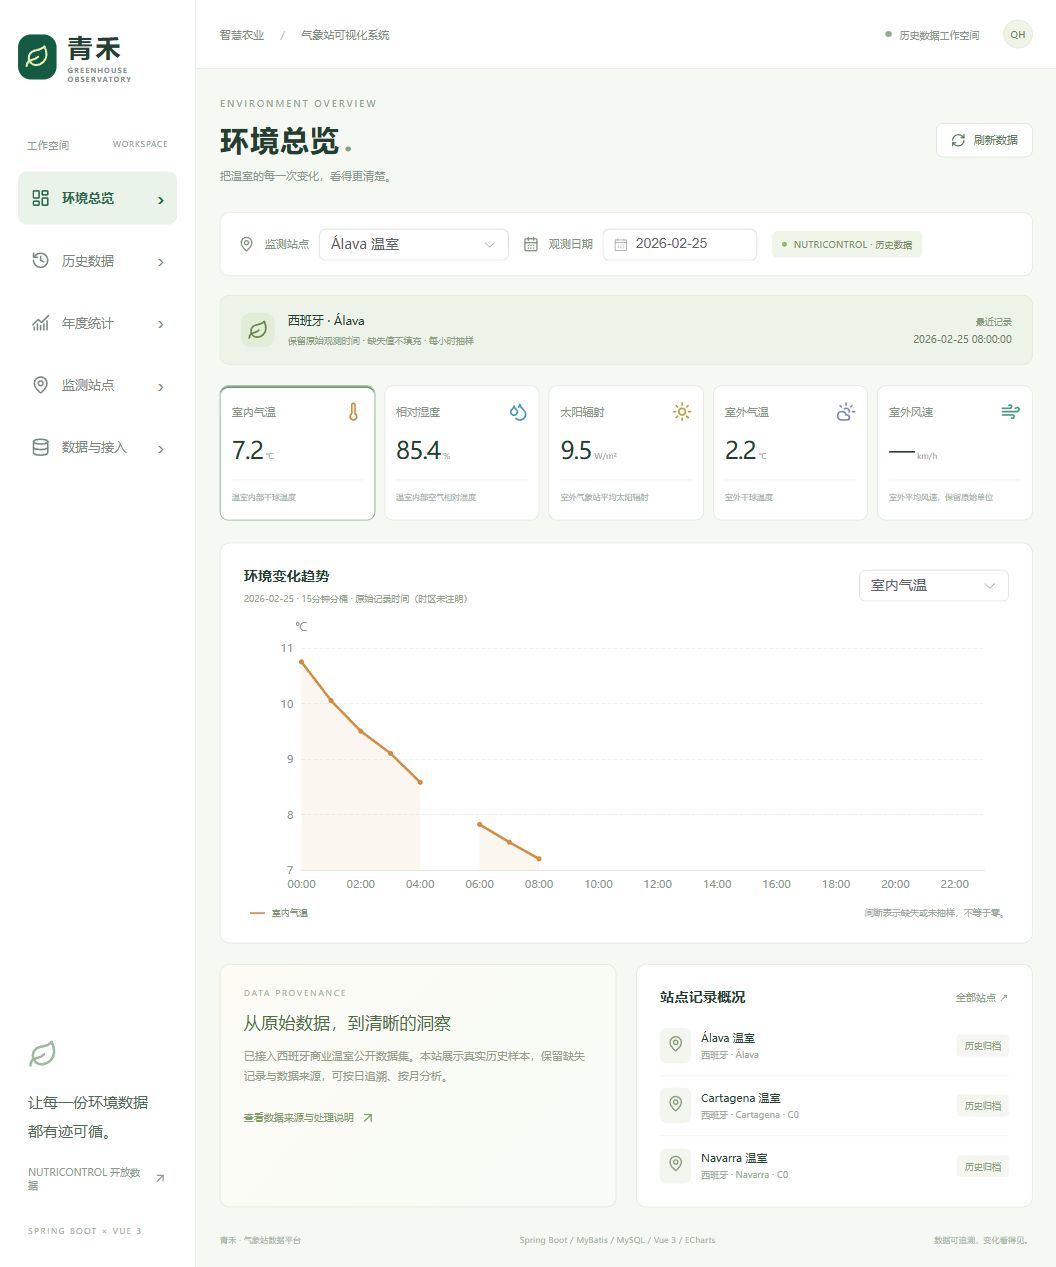
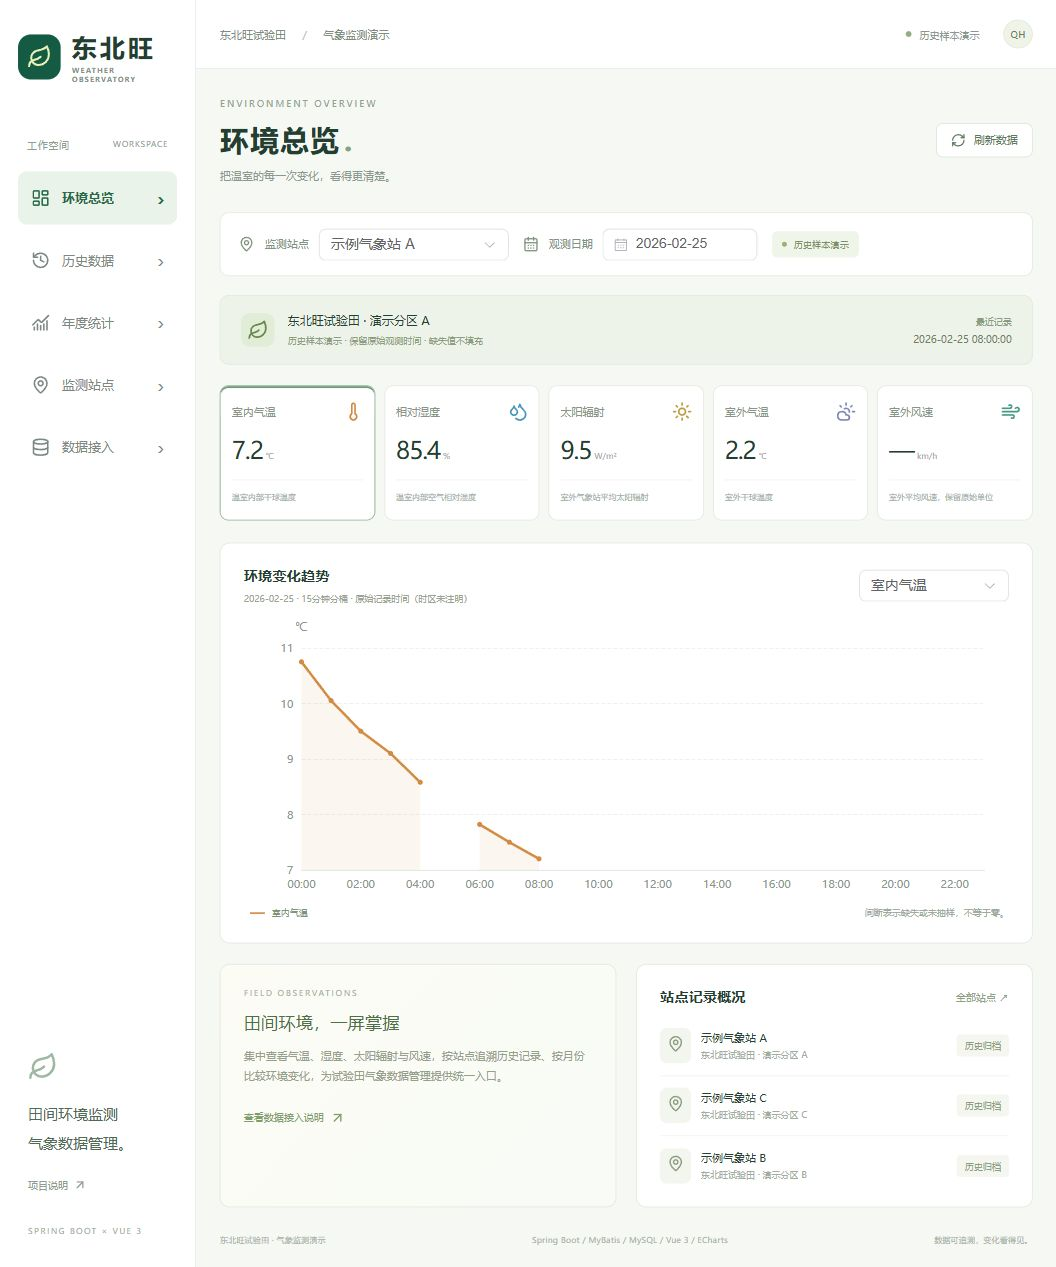
Add clearly labeled Dongbeiwang demonstration scenario

diff --git a/frontend/src/views/Workspace.vue b/frontend/src/views/Workspace.vue
@@ -19,6 +19,7 @@ import {
   FileText,
 } from "lucide-vue-next";
 import ClimateChart from "../components/ClimateChart.vue";
+import { stationPresentation } from "../presentation";
 import {
   request,
   query,
@@ -52,12 +53,12 @@ const titles: Record<string, [string, string, string]> = {
   ],
   stations: [
     "监测站点",
-    "跨越不同气候区的温室环境记录。",
+    "按演示分区查看气象观测与历史记录。",
     "MONITORING STATIONS",
   ],
   sources: [
-    "数据与接入",
-    "透明的数据来源，清晰的系统边界。",
+    "数据接入",
+    "连接采集端，集中管理气象观测数据。",
     "DATA & INTEGRATION",
   ],
 };
@@ -91,7 +92,7 @@ const latest = computed(() =>
 );
 const sourceLabel = computed(() =>
   latest.value?.source === "nutricontrol"
-    ? "NUTRICONTROL · 历史数据"
+    ? "历史样本演示"
     : latest.value?.source === "demo"
       ? "演示数据"
       : latest.value?.source === "device"
@@ -254,7 +255,7 @@ onBeforeUnmount(() => {
           ><el-option
             v-for="s in stations"
             :key="s.station.code"
-            :label="s.station.name"
+            :label="stationPresentation(s.station).name"
             :value="s.station.code"
         /></el-select>
       </div>
@@ -291,10 +292,14 @@ onBeforeUnmount(() => {
         <div>
           <span class="intro-icon"><Leaf :size="21" /></span
           ><span
-            ><strong>{{ selected?.station.location || "正在读取站点" }}</strong
+            ><strong>{{
+              selected
+                ? stationPresentation(selected.station).location
+                : "正在读取站点"
+            }}</strong
             ><small>{{
               latest?.source === "nutricontrol"
-                ? "保留原始观测时间 · 缺失值不填充 · 每小时抽样"
+                ? "历史样本演示 · 保留原始观测时间 · 缺失值不填充"
                 : "按数据源时间展示 · 缺失值不填充"
             }}</small></span
           >
@@ -383,13 +388,13 @@ onBeforeUnmount(() => {
       </section>
       <section class="bottom-grid">
         <div class="panel explain-card">
-          <div class="section-kicker">DATA PROVENANCE</div>
-          <h2>从原始数据，到清晰的洞察</h2>
+          <div class="section-kicker">FIELD OBSERVATIONS</div>
+          <h2>田间环境，一屏掌握</h2>
           <p>
-            已接入西班牙商业温室公开数据集。本站展示真实历史样本，保留缺失记录与数据来源，可按日追溯、按月分析。
+            集中查看气温、湿度、太阳辐射与风速，按站点追溯历史记录、按月份比较环境变化，为试验田气象数据管理提供统一入口。
           </p>
           <RouterLink to="/sources"
-            >查看数据来源与处理说明 <ArrowUpRight :size="16"
+            >查看数据接入说明 <ArrowUpRight :size="16"
           /></RouterLink>
         </div>
         <div class="panel station-summary">
@@ -404,8 +409,8 @@ onBeforeUnmount(() => {
           >
             <span class="station-pin"><MapPin :size="17" /></span>
             <div>
-              <strong>{{ s.station.name }}</strong
-              ><small>{{ s.station.location }}</small>
+              <strong>{{ stationPresentation(s.station).name }}</strong
+              ><small>{{ stationPresentation(s.station).location }}</small>
             </div>
             <span class="muted-pill">历史归档</span>
           </div>
@@ -449,8 +454,8 @@ onBeforeUnmount(() => {
           ><template #default="scope">{{
             valueText(scope.row[m.key], 2)
           }}</template></el-table-column
-        ><el-table-column prop="source" label="来源" min-width="125"
-      /></el-table>
+        ></el-table
+      >
       <div class="table-footer">
         <span>空值以 — 显示；CSV 保留为空。</span
         ><el-pagination
@@ -531,10 +536,10 @@ onBeforeUnmount(() => {
       ><div class="source-banner">
         <MapPin :size="25" />
         <div>
-          <h2>三个地区，多种温室环境</h2>
-          <p>Álava · Navarra · Cartagena / Spain</p>
+          <h2>试验田气象监测分区</h2>
+          <p>东北旺试验田 · 历史样本演示场景</p>
         </div>
-        <span class="data-badge">NUTRICONTROL</span>
+        <span class="data-badge">示例站点</span>
       </div>
       <section class="station-grid">
         <article
@@ -542,13 +547,15 @@ onBeforeUnmount(() => {
           :key="s.station.code"
           class="panel site-card"
         >
-          <span class="site-code">{{ s.station.code }}</span
+          <span class="site-code">DEMONSTRATION STATION</span
           ><span class="site-illustration"
             ><Leaf :size="38" stroke-width="1"
           /></span>
-          <h2>{{ s.station.name }}</h2>
-          <p>{{ s.station.location }}</p>
-          <div class="site-description">{{ s.station.description }}</div>
+          <h2>{{ stationPresentation(s.station).name }}</h2>
+          <p>{{ stationPresentation(s.station).location }}</p>
+          <div class="site-description">
+            {{ stationPresentation(s.station).description }}
+          </div>
           <div class="site-last">
             <span>最近观测记录</span
             ><strong>{{ timeText(s.lastObservedAt) }}</strong>
@@ -565,53 +572,18 @@ onBeforeUnmount(() => {
           </button>
         </article></section
     ></template>
-    <template v-else-if="view === 'sources'"
-      ><div class="source-banner">
+    <template v-else-if="view === 'sources'">
+      <div class="source-banner">
         <Database :size="26" />
         <div>
-          <h2>NUTRICONTROL 开放数据集</h2>
-          <p>Multi-Site Greenhouse Climate Dataset (Spain)</p>
+          <h2>气象观测数据接入</h2>
+          <p>采集端上报 · 数据存储 · 查询与可视化</p>
         </div>
-        <a
-          href="https://github.com/SmartGreenHouses/NUTRICONTROL_datasets"
-          target="_blank"
-          rel="noopener noreferrer"
-          class="outline-button"
-          >访问原始仓库 <ArrowUpRight :size="15"
-        /></a>
+        <span class="data-badge">接入配置</span>
       </div>
       <section class="source-grid">
         <article class="panel prose">
-          <div class="section-kicker">01 / SOURCE & LICENSE</div>
-          <h2>来源与使用许可</h2>
-          <p>
-            数据由 Jaime Carlavilla-Lázaro、Virginia C. Sánchez、Carlos T.
-            Calafate、Carlos García Sáez、Juan Morales-García、José M. Cecilia
-            发布，许可为 CC BY 4.0。
-          </p>
-          <p>
-            使用三个站点的 clean_data 数据，Navarra 与 Cartagena 选择
-            C0，并按相同时间戳关联室外气象数据。DOI：<a
-              href="https://doi.org/10.5281/zenodo.21037153"
-              target="_blank"
-              rel="noopener noreferrer"
-              >10.5281/zenodo.21037153</a
-            >。
-          </p>
-        </article>
-        <article class="panel prose">
-          <div class="section-kicker">02 / PROCESSING</div>
-          <h2>透明的处理规则</h2>
-          <p>
-            默认样本仅选取每小时整点的原始15分钟记录，保留日期与缺失值，数值四舍五入至两位小数。辐射单位为
-            W/m²，风速为 km/h。
-          </p>
-          <p>
-            不插值、不把空值当成零、不把历史记录改成当天。原始数据未注明时区，因此保留源时间，不进行时区换算。月度统计基于已导入样本，不代表完整原始数据集。
-          </p>
-        </article>
-        <article class="panel prose">
-          <div class="section-kicker">03 / ARCHITECTURE</div>
+          <div class="section-kicker">01 / ARCHITECTURE</div>
           <h2>数据服务架构</h2>
           <div class="architecture-flow">
             <span><Database :size="18" /> MySQL</span><b>→</b
@@ -624,7 +596,7 @@ onBeforeUnmount(() => {
           </p>
         </article>
         <article class="panel prose">
-          <div class="section-kicker">04 / INGESTION API</div>
+          <div class="section-kicker">02 / INGESTION API</div>
           <h2>接入自己的观测数据</h2>
           <p>
             <ShieldCheck :size="15" /> 配置至少32位的 INGEST_API_KEY
@@ -650,7 +622,7 @@ POST /api/v1/observations
       </section></template
     >
     <footer class="page-footer">
-      <span>青禾 · 气象站数据平台</span
+      <span>东北旺试验田 · 气象监测演示</span
       ><span>Spring Boot / MyBatis / MySQL / Vue 3 / ECharts</span
       ><span>数据可追溯，变化看得见。</span>
     </footer>

diff --git a/frontend/src/App.vue b/frontend/src/App.vue
@@ -28,7 +28,7 @@ const nav = [
     en: "ANALYTICS",
   },
   { path: "stations", label: "监测站点", icon: MapPin, en: "STATIONS" },
-  { path: "sources", label: "数据与接入", icon: Database, en: "DATA SOURCES" },
+  { path: "sources", label: "数据接入", icon: Database, en: "INTEGRATION" },
 ];
 </script>
 <template>
@@ -40,7 +40,7 @@ const nav = [
       <a class="brand" href="#/overview"
         ><span class="brand-mark"><Leaf :size="25" /></span
         ><span
-          >青禾<span class="brand-sub">GREENHOUSE OBSERVATORY</span></span
+          >东北旺<span class="brand-sub">WEATHER OBSERVATORY</span></span
         ></a
       >
       <div class="nav-caption">工作空间 <span>WORKSPACE</span></div>
@@ -57,20 +57,20 @@ const nav = [
       </nav>
       <div class="sidebar-footer">
         <div class="mini-leaf"><Leaf :size="30" /></div>
-        <p>让每一份环境数据<br />都有迹可循。</p>
+        <p>田间环境监测<br />气象数据管理。</p>
         <a
-          href="https://github.com/SmartGreenHouses/NUTRICONTROL_datasets"
+          href="https://github.com/zhanglonglong01/weather-station-dashboard/blob/main/docs/SCENARIO.md"
           target="_blank"
           rel="noopener noreferrer"
-          >NUTRICONTROL 开放数据 <ArrowUpRight :size="14" /></a
+          >项目说明 <ArrowUpRight :size="14" /></a
         ><small>SPRING BOOT × VUE 3</small>
       </div>
     </aside>
     <div class="content-shell">
       <header class="topbar">
-        <div class="breadcrumbs">智慧农业 <span>/</span> 气象站可视化系统</div>
+        <div class="breadcrumbs">东北旺试验田 <span>/</span> 气象监测演示</div>
         <div class="topbar-right">
-          <span class="status-dot"></span> 历史数据工作空间
+          <span class="status-dot"></span> 历史样本演示
           <span class="avatar">QH</span>
         </div>
       </header>

diff --git a/frontend/src/presentation.ts b/frontend/src/presentation.ts
@@ -1,0 +1,21 @@
+import type { Station } from "./api";
+
+// Presentation aliases describe a demonstration scenario, not collection sites.
+// Canonical station codes and source records remain unchanged in the API/export.
+const demoPartitions: Record<string, string> = {
+  "ES-ALAVA": "A",
+  "ES-NAVARRA": "B",
+  "ES-CARTAGENA": "C",
+};
+
+export function stationPresentation(station: Station): Station {
+  const partition = demoPartitions[station.code];
+  if (!partition) return station;
+  return {
+    ...station,
+    name: `示例气象站 ${partition}`,
+    location: `东北旺试验田 · 演示分区 ${partition}`,
+    description:
+      "面向试验田环境监测的演示站点。当前显示历史样本，实际采集设备可通过接口接入。",
+  };
+}

diff --git a/frontend/index.html b/frontend/index.html
@@ -8,7 +8,7 @@
       name="description"
       content="基于 Spring Boot、Vue 与 NUTRICONTROL 开放数据集的温室气象站可视化系统"
     />
-    <title>青禾 · 气象站数据平台</title>
+    <title>东北旺试验田 · 气象监测演示</title>
     <link rel="icon" href="/favicon.svg" type="image/svg+xml" />
   </head>
   <body>

diff --git a/docs/SCENARIO.md b/docs/SCENARIO.md
@@ -1,0 +1,17 @@
+# 东北旺试验田演示场景
+
+界面以“东北旺试验田气象站管理”为演示业务场景。当前页面使用历史样本，**不表示本项目或实验室已在该试验田布设设备并采集这些记录**。
+
+为了突出站点管理与查询功能，首页不再展示大幅数据来源介绍；原始数据的作者、许可、DOI、固定版本、时间范围和处理方式继续保留在 [数据来源说明](DATA_SOURCES.md)、README 及数据清单中。
+
+前端站点别名仅为演示分区：
+
+| 前端演示名称 | 原始站点代码 | 真实数据集站点 |
+|---|---|---|
+| 示例气象站 A | ES-ALAVA | Álava |
+| 示例气象站 B | ES-NAVARRA | Navarra C0 |
+| 示例气象站 C | ES-CARTAGENA | Cartagena C0 |
+
+别名只作用于前端显示。API、数据库、CSV 导出中的原始站点代码、观测时间和来源字段不变；不改写历史日期、不伪造地理位置字段、不修改记录的来源。
+
+如果后续接入真实东北旺试验田采集记录，应新增具有实际站点名称的站点，通过数据接入 API 导入，并对采集时间、物理量单位与设备编号进行核对。实际数据接入前，界面保持“历史样本演示”标识。

diff --git a/docs/VERIFICATION.md b/docs/VERIFICATION.md
@@ -17,11 +17,11 @@
 
 页面实测：
 
-- 环境总览默认打开 Álava 最近有记录的2026-02-25，缺失风速显示为 `—`；图表不跨越缺失时段连线。
+- 环境总览默认打开示例气象站 A（原始数据对应 Álava）最近有记录的2026-02-25，缺失风速显示为 `—`；图表不跨越缺失时段连线。
 - 历史页面筛选2025-06-01，显示24条记录；第二页4条，时间00:00—03:00。
 - 浏览器点击导出成功下载24行数据的 CSV，保留 nutricontrol 来源。
 - 年度统计切换2025，输入、标题与12个月的数据图表保持一致。
-- 站点页面列出 Álava、Navarra C0、Cartagena C0；数据来源页面包含作者、CC BY 4.0、DOI、单位与缺失处理说明。
+- 站点页面使用演示别名 A/B/C，并标注历史样本演示；项目文档保留作者、CC BY 4.0、DOI、单位及缺失处理说明。
 
 ![环境总览](images/dashboard.jpg)
 

diff --git a/README.md b/README.md
@@ -1,6 +1,8 @@
-# 青禾 · 气象站数据可视化系统
+# 东北旺试验田气象站可视化系统（演示）
 
 **Spring Boot + MyBatis + MySQL + Vue 3 + ECharts**。围绕温室环境数据的集中存储、历史追溯与趋势分析，提供可运行的前后端工程、真实开放数据样本、测试与部署配置。
+
+界面以东北旺试验田为演示场景，当前显示的是公开历史样本，页面站点使用演示别名。场景与实际数据的对应关系见 [演示场景说明](docs/SCENARIO.md)。
 
 ![环境总览](docs/images/dashboard.jpg)
 

diff --git a/docs/API.md b/docs/API.md
@@ -2,6 +2,8 @@
 
 Base URL：`http://localhost:8080/api/v1`。响应为 JSON；错误为 `application/problem+json`，含 `status` 和中文 `detail`。
 
+前端可使用演示场景别名；API 与 CSV 中的站点代码及来源不受影响，对应关系见 [场景说明](SCENARIO.md)。
+
 ## 读取接口
 
 | 方法与路径 | 参数 | 行为 |
